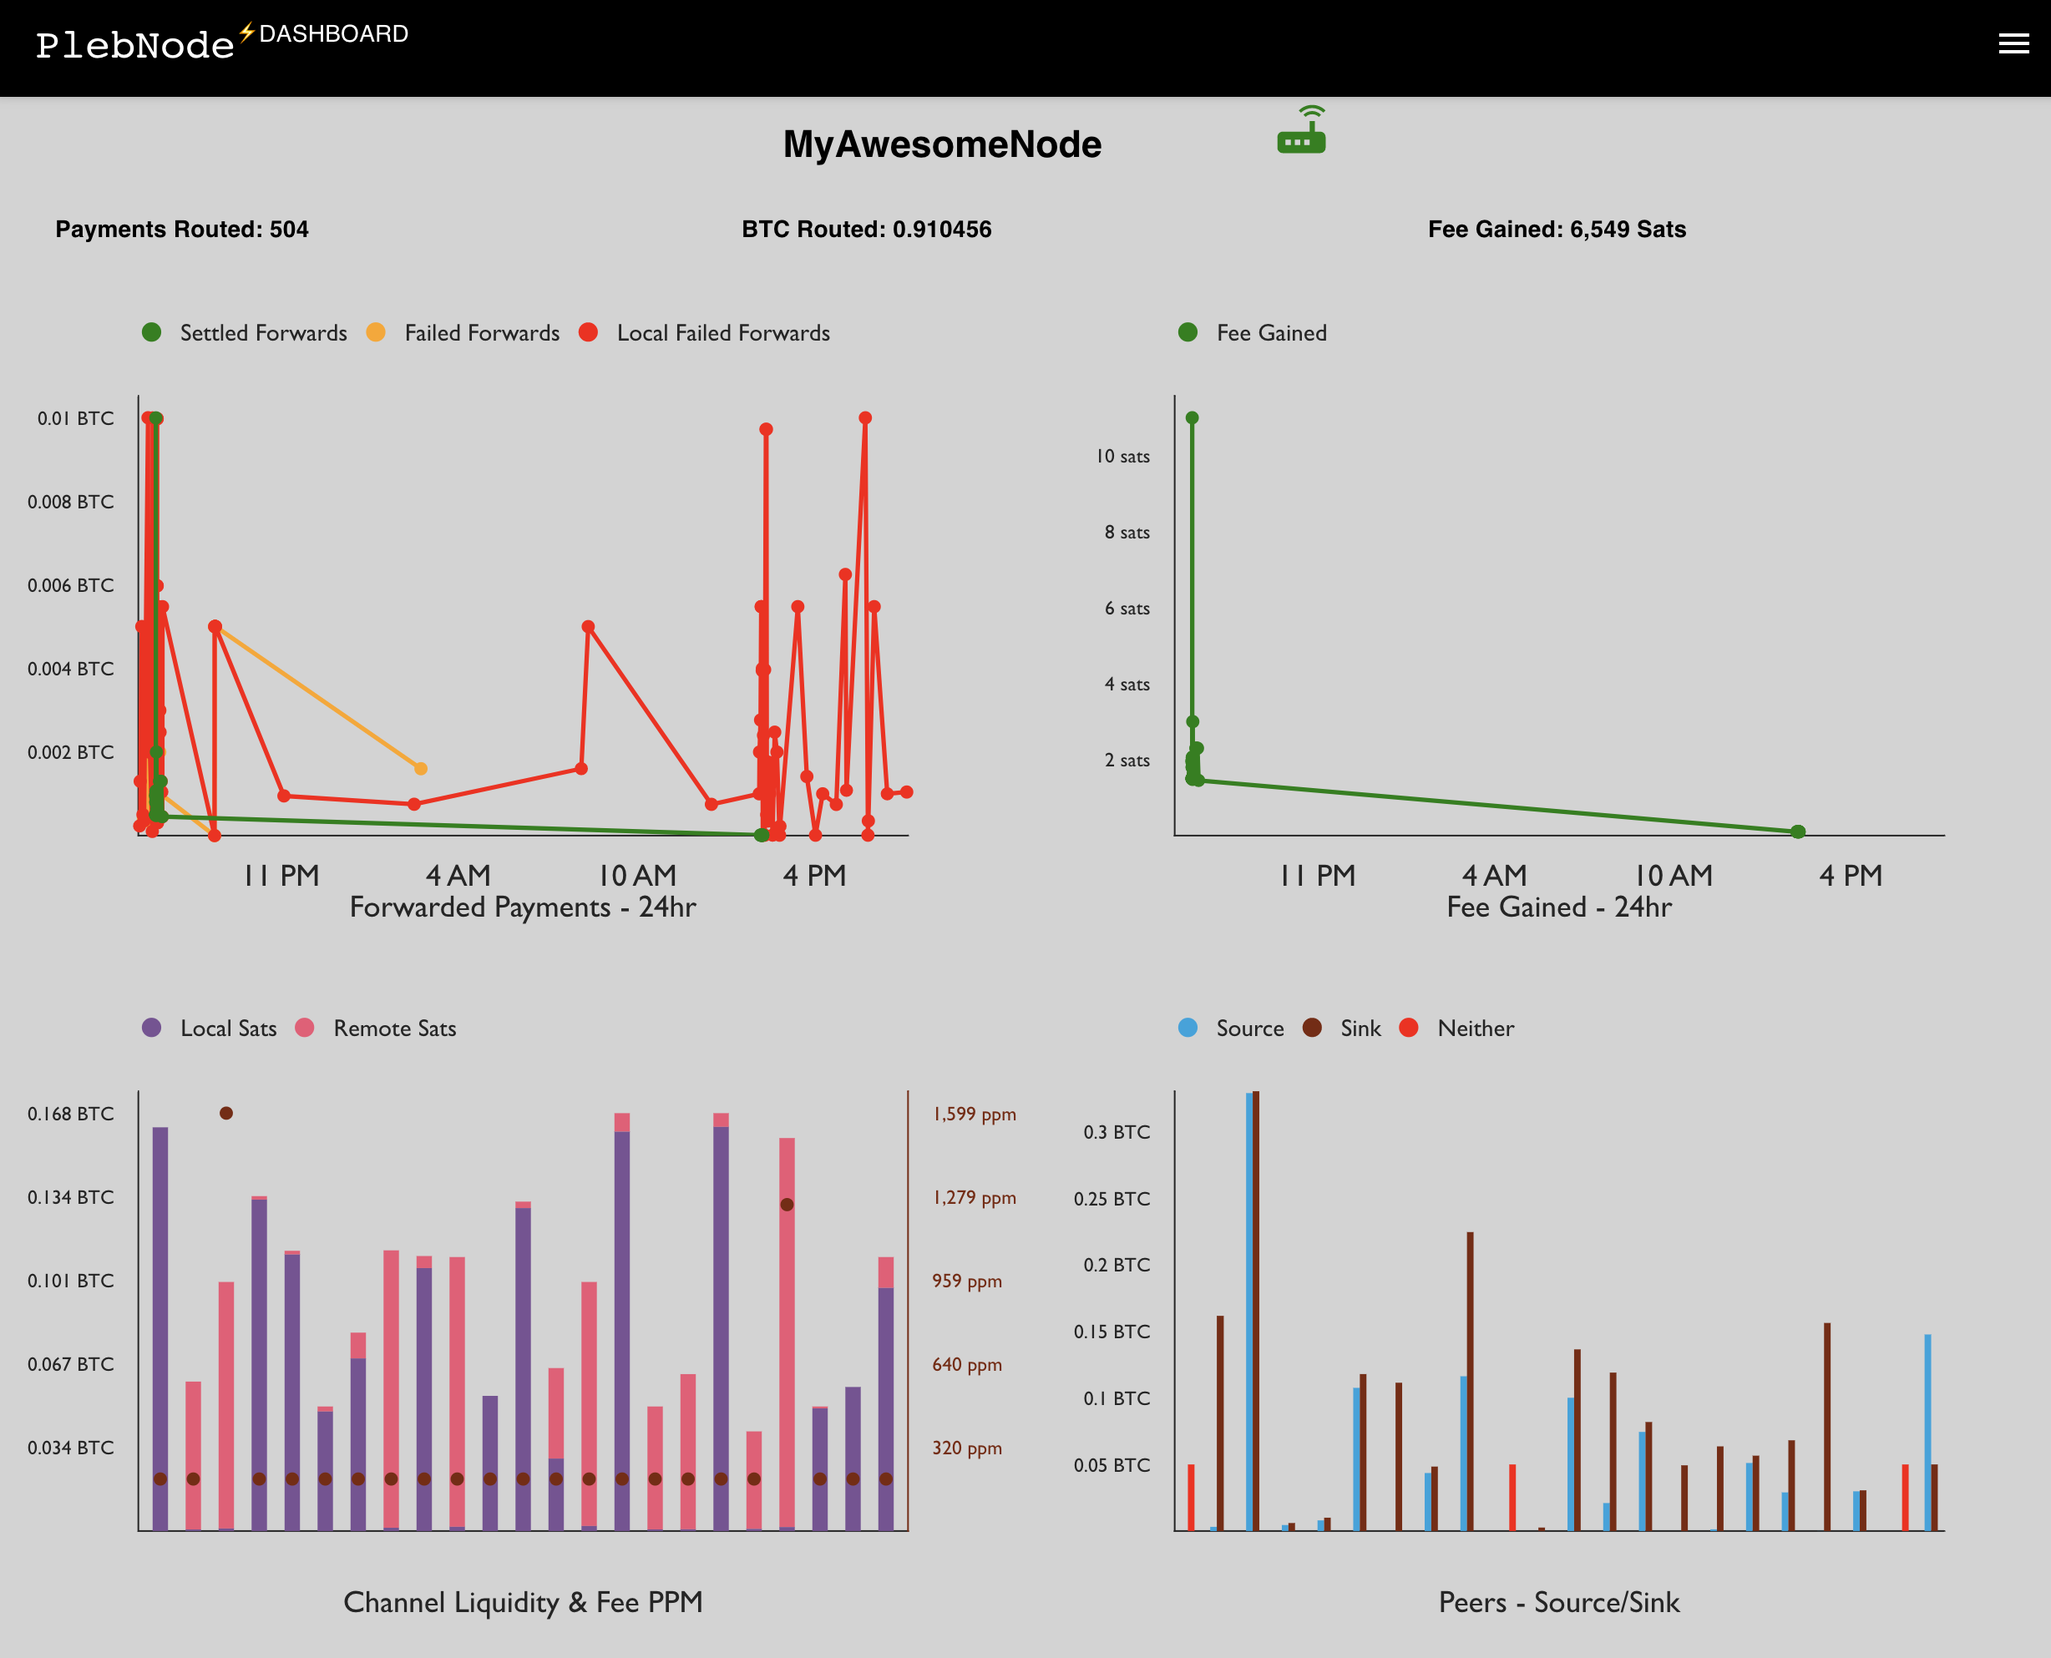
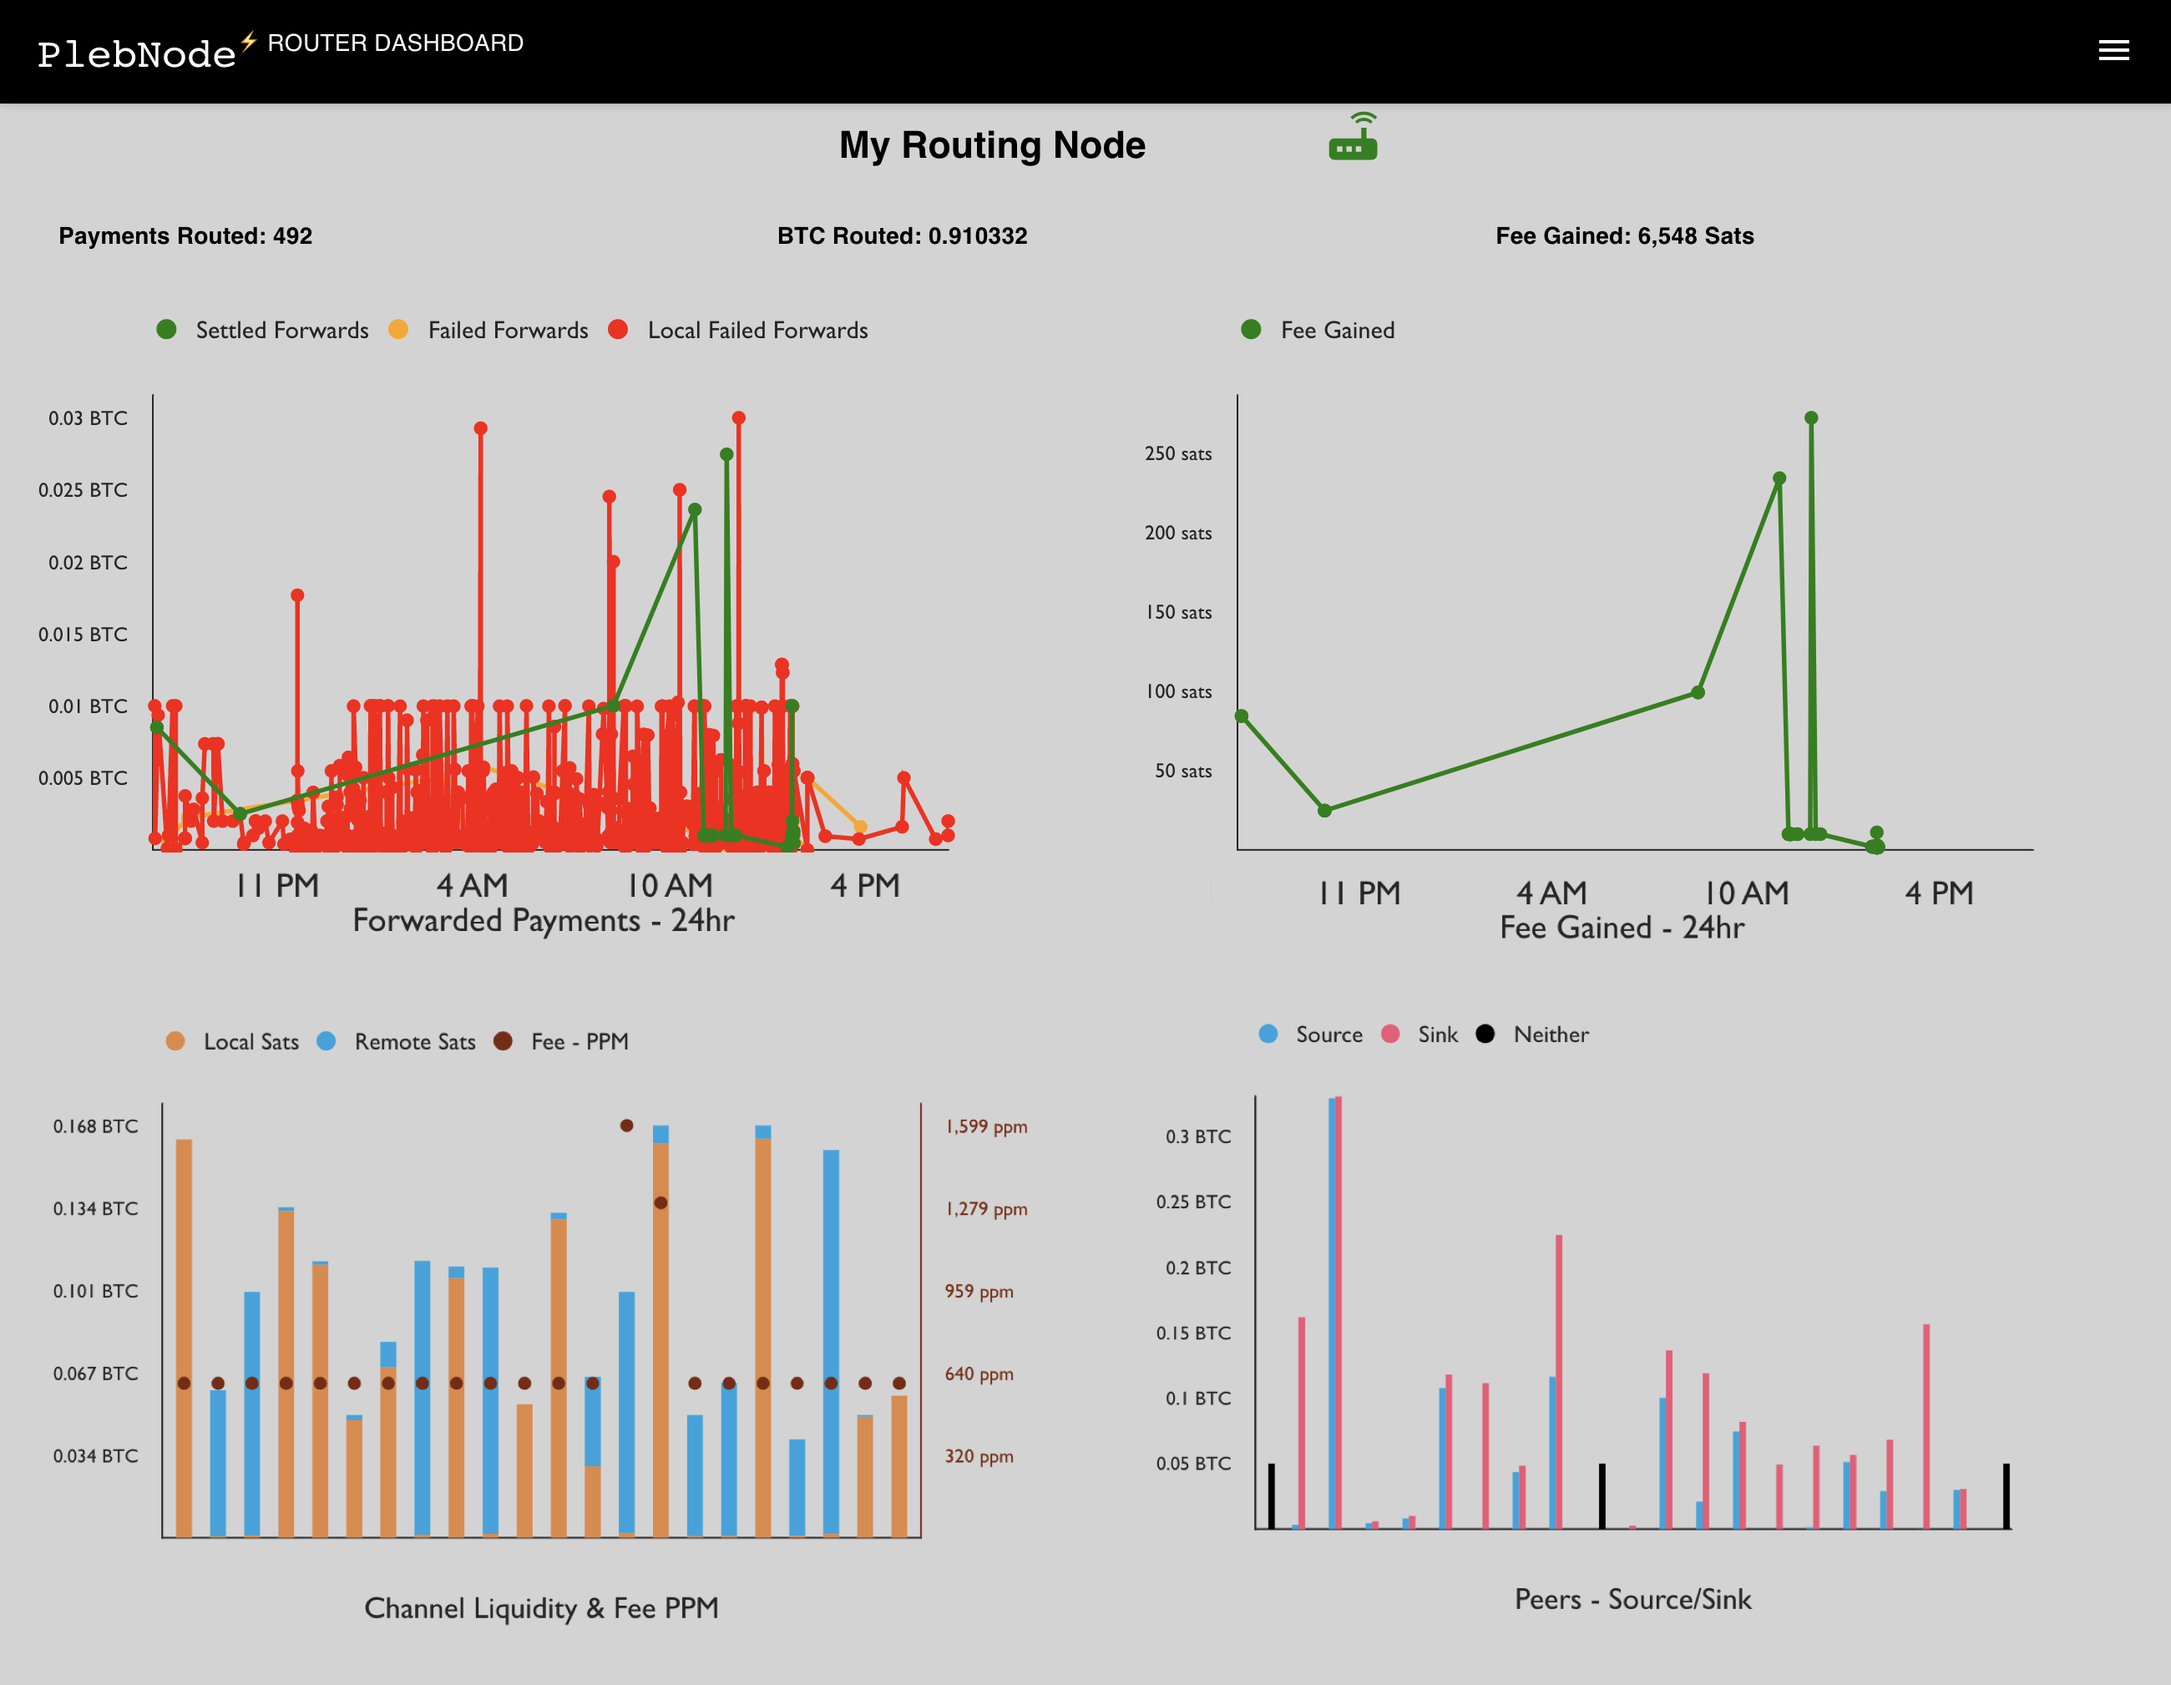
Content Update

diff --git a/src/components/home/Home.js b/src/components/home/Home.js
@@ -77,7 +77,7 @@ const Home = () => {
             }
 
         };
-        console.log(list_peers);
+        
         return list_peers;
     }
 
@@ -540,7 +540,7 @@ Out Channel: ${datum.out_channel} (${getAlias(datum.out_channel)})`}
                         gutter={10}
                         style={{ labels: { fontSize: 11 } }}
                         data={[
-                            { name: "Local Sats", symbol: { fill: "#7a5195" } },
+                            { name: "Local Sats", symbol: { fill: "#e28743" } },
                             { name: "Remote Sats", symbol: { fill: "#00a3de" } },
                             { name: "Fee - PPM", symbol: { fill: "#7c270b" } }
                         ]}
@@ -569,7 +569,7 @@ Out Channel: ${datum.out_channel} (${getAlias(datum.out_channel)})`}
                     />
                     <VictoryStack>
                         <VictoryBar
-                            style={{ data: { fill: "#7a5195" ,strokeWidth: 2, stroke: ({datum}) => datum.htlcs.length > 0 ? 'red': '' } }}
+                            style={{ data: { fill: "#e28743" ,strokeWidth: 2, stroke: ({datum}) => datum.htlcs.length > 0 ? 'red': '' } }}
                             animate={{
                                 duration: 2000,
                                 onLoad: { duration: 1000 }
@@ -619,7 +619,7 @@ Remote: ${satsFormatter.format(datum.msatoshi_peer / 1000)} sats ${getHtlcs(datu
                         style={{ labels: { fontSize: 11 } }}
                         data={[
                             { name: "Source", symbol: { fill: "#00a3de" } },
-                            { name: "Sink", symbol: { fill: "#7c270b" } },
+                            { name: "Sink", symbol: { fill: "#ef5675" } },
                             { name: "Neither", symbol: { fill: "black" } }
                         ]}
                     />
@@ -654,7 +654,7 @@ Outbound Forwarding Fulfilled: ${satsFormatter.format(datum.sum_out_msatoshi_ful
                                 duration: 2000,
                                 onLoad: { duration: 1000 }
                             }}
-                            style={{ data: { fill: "#7c270b" } }} x="alias" y="sum_out_msatoshi_fulfilled"
+                            style={{ data: { fill: "#ef5675" } }} x="alias" y="sum_out_msatoshi_fulfilled"
                             labels={({ datum }) => `Peer Alias: ${datum.alias}
 Inbound Forwarding Fulfilled: ${satsFormatter.format(datum.sum_in_msatoshi_fulfilled / 1000)} sats
 Outbound Forwarding Fulfilled: ${satsFormatter.format(datum.sum_out_msatoshi_fulfilled / 1000)} sats`}

diff --git a/src/components/navbar/NavBar.js b/src/components/navbar/NavBar.js
@@ -71,7 +71,7 @@ const NavBar = () => {
             <AppBar className="Header" position="sticky" style={{backgroundColor: "black"}}>
                 <Toolbar className="TopBar"   >
                     <Typography className="TopLeftBar" variant="h5" component="h1" color="inherit" onClick={() => { handleRedirect('/', true) }} >
-                        PlebNode<Typography component="span" style={{fontSize:"14px"}} >⚡DASHBOARD</Typography>
+                        PlebNode<Typography component="span" style={{fontSize:"14px"}} >⚡ ROUTER DASHBOARD</Typography>
                     </Typography>
                     <IconButton
                         color="inherit"

diff --git a/src/components/settings/Settings.js b/src/components/settings/Settings.js
@@ -268,7 +268,7 @@ const Settings = () => {
                     <Card className="SettingsCard" >
                         <CardHeader
                             titleTypographyProps={{ variant: 'h6', component: 'h2' }}
-                            title={'Lightning Node Connection Settings'}
+                            title={'Routing Dashboard For Core Lightning Node - Connection Settings'}
                             subheader={'Update connection settings for your lightning node. Only Core Lightning supported as of now. LND is not supported.'}
                         />
                         <CardContent>

diff --git a/README.md b/README.md
@@ -1,6 +1,6 @@
-## Plebnode Dashboard - Your Lightning Node Dashboard
+## Plebnode Dashboard - Core Lightning Router Dashboard
 
-Plebnode Dashboad is a `LIVE` dashboard for your lightning node. It only supports core lightning node as of now. 
+Plebnode Dashboad is a `LIVE` routing dashboard for your Core Lightning node. You can run it to monitor `Forwards - Settled/Failed/Local Failed, Fee Gained, Channel Liquidity (local sats/remote sats) & Fee PPM`. You can also monitor which peers are `Sinks/Sources`. The dashboard `auto refreshes` itself so you can let it run on a computer screen to monitor your node status throughout the day. 
 
 ![Plebnode - Dashboard](./public/dashboard1.png)
 
